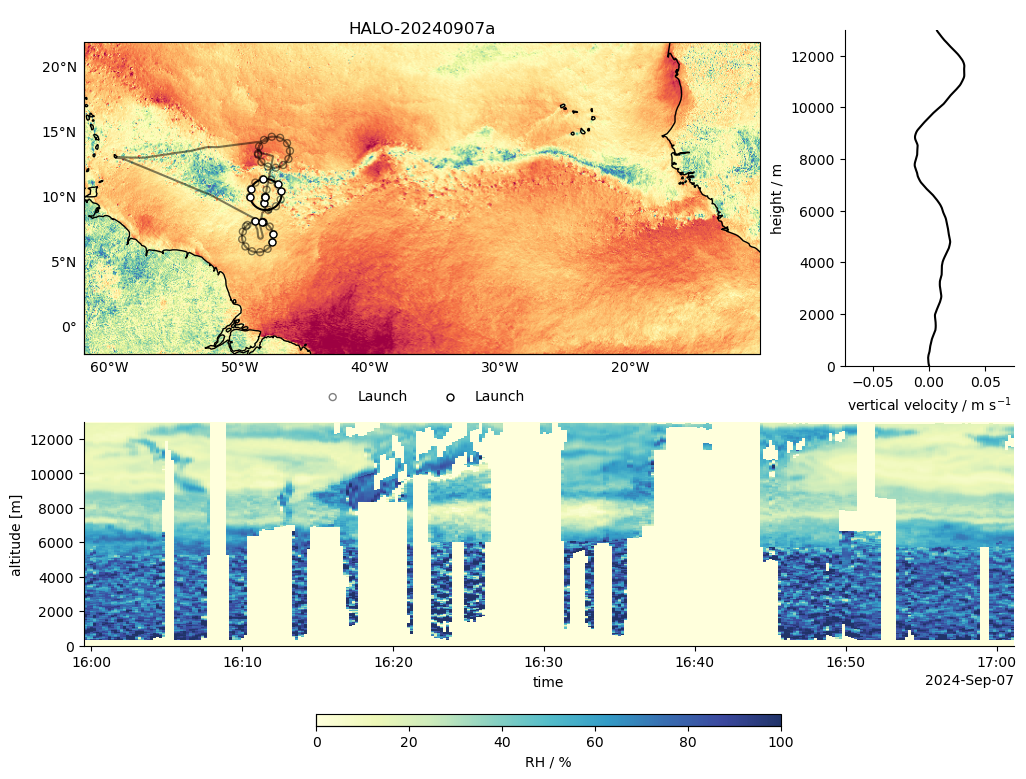
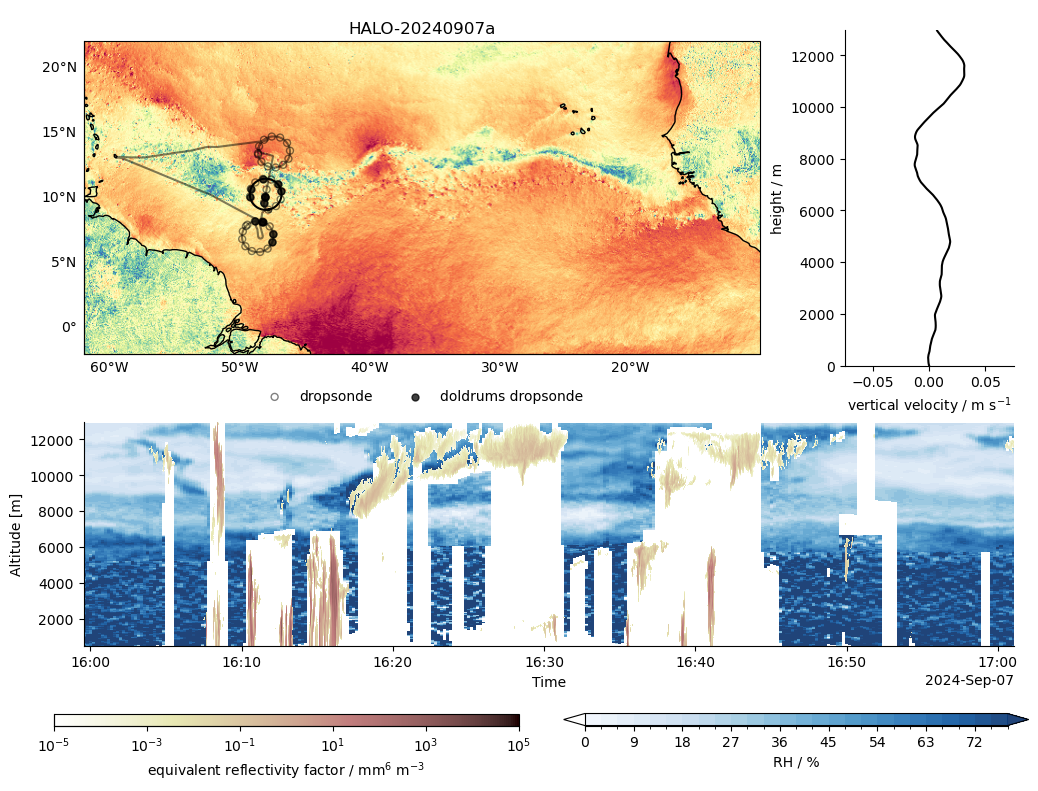
Replaces radar or lidar only plots with combined radar lidar plots.

diff --git a/scripts/figures_itcz_weak_winds.py b/scripts/figures_itcz_weak_winds.py
@@ -83,6 +83,7 @@ store = (
 )
 ds_wales_wv = xr.open_dataset(store, engine="zarr")
 ds_wales_wv = ds_wales_wv.sel(time=slice(flight_start, flight_end))
+ds_wales_wv = ds_wales_wv.where(ds_wales_wv.wv_flags == 0)
 
 k_B = 1.380649e-23  # J/K
 
@@ -97,6 +98,12 @@ es = 611.2 * np.exp(
 
 ds_wales_wv["RH"] = 100 * e / es
 
+# %%
+# HAMP dataset
+ds_hamp = xr.open_dataset(
+    "ipfs://bafybeifxtmq5mpn7vwiiwl4vlpoil7rgm2tnhmkeyqsyudleqegxzvwl3a", engine="zarr"
+)
+ds_hamp_flight = ds_hamp.sel(time=slice(flight_start, flight_end))
 
 # %%
 # LAM dataset
@@ -152,7 +159,7 @@ ax_lam.scatter(
     sondes_flight_day.launch_lon,
     sondes_flight_day.launch_lat,
     facecolors="none",
-    label="Launch",
+    label="dropsonde",
     alpha=0.5,
     **scatter_kwargs,
 )
@@ -161,10 +168,10 @@ ax_lam.scatter(
     dol_sondes_flight_day.launch_lon,
     dol_sondes_flight_day.launch_lat,
     color=None,
-    label="Launch",
-    alpha=1.0,
+    label="doldrums dropsonde",
+    alpha=0.75,
     zorder=10,
-    facecolors="white",
+    facecolors="k",
     **scatter_kwargs,
 )
 
@@ -174,32 +181,63 @@ ax_lam.spines[["right", "top"]].set_visible(False)
 ax_lam.legend(frameon=False, loc="lower center", bbox_to_anchor=(0.5, -0.2), ncol=4)
 ax_lam.set_title(flight_id)
 
+cmap_wales = plt.get_cmap("Blues").copy()
+cmap_wales.set_under((1, 1, 1, 0))  # transparent
 
 ds_wales_sel_segment = ds_wales_wv.sel(time=slice(segment_start, segment_end))
 im_wales = ds_wales_sel_segment["RH"].plot(
     alpha=0.9,
     x="time",
-    vmin=0,
-    vmax=100,
+    levels=np.arange(0, 81, 3),
     ax=ax_wales,
-    cmap="YlGnBu",
+    cmap=cmap_wales,
     add_colorbar=False,
 )
 
-pos = ax_wales.get_position()
+# HAMP radar reflectivity
 
-cax_wv = fig.add_axes(
-    [
-        pos.x0 + 0.25 * pos.width,  # left
-        pos.y1 - 0.38,  # bottom
-        0.5 * pos.width,  # width
-        0.015,  # height
-    ]
+cmap = plt.get_cmap("pink_r").copy()
+cmap.set_under((1, 1, 1, 0))  # transparent
+
+reflectivity_segment = ds_hamp_flight.radar_reflectivity.sel(
+    time=slice(segment_start, segment_end)
 )
 
+
+im_hamp = reflectivity_segment.plot(
+    y="altitude",
+    ax=ax_wales,
+    label=f"IWV bin {bin}",
+    cmap=cmap,
+    norm=colors.LogNorm(vmin=1e-5, vmax=1e5),
+    add_colorbar=False,
+)
+
+
+pos = ax_wales.get_position()
+
+cax_wv_positions = [
+    pos.x0 - 0.025,  # left
+    pos.y1 - 0.38,  # bottom
+    0.5 * pos.width,  # width
+    0.015,  # height
+]
+
+cax_wv = fig.add_axes(cax_wv_positions)
+cax_wales = fig.add_axes(cax_wv_positions + np.array([0.425, 0, 0, 0]))
+
+
 cb = fig.colorbar(
-    im_wales,
+    im_hamp,
     cax=cax_wv,
+    orientation="horizontal",
+    label=r"equivalent reflectivity factor / mm$^6$ m$^{-3}$",
+    shrink=0.75,
+)
+
+cb_wales = fig.colorbar(
+    im_wales,
+    cax=cax_wales,
     orientation="horizontal",
     label=r"RH / %",
     shrink=0.75,
@@ -216,15 +254,13 @@ cwv_circle_in_segment = circles_flight_day.sel(
 
 print(f"Mean IWV in circle segment: {cwv_circle_in_segment:.2f} kg/m^2")
 
-
 ax_ds.set_xlabel("vertical velocity / m s$^{-1}$")
 ax_ds.set_ylabel("height / m")
 ax_ds.set_title(" ")
 ax_ds.set_ylim(ymin=0, ymax=13e3)
 ax_ds.set_xlim(xmin=-0.075, xmax=0.075)
 
-
-ax_wales.set_ylim(ymin=0, ymax=13e3)
+ax_wales.set_ylim(ymin=500, ymax=13e3)
 
 sns.despine()
 

diff --git a/scripts/figures_itcz_deep_convection.py b/scripts/figures_itcz_deep_convection.py
@@ -51,6 +51,28 @@ ds_hamp = xr.open_dataset(
 ds_hamp_flight = ds_hamp.sel(time=slice(flight_start, flight_end))
 
 # %%
+# WALES dataset
+store = (
+    "https://swift.dkrz.de/v1/dkrz_41caca03ec414c2f95f52b23b775134f/wales/wales_wv.zarr"
+)
+ds_wales_wv = xr.open_dataset(store, engine="zarr")
+ds_wales_wv = ds_wales_wv.sel(time=slice(flight_start, flight_end))
+ds_wales_wv = ds_wales_wv.where(ds_wales_wv.wv_flags == 0)
+
+k_B = 1.380649e-23  # J/K
+
+T = ds_wales_wv["airtemperature"]  # K
+n_v = ds_wales_wv["wv"]  # molecules/m^3
+
+e = n_v * k_B * T  # Pa
+
+es = 611.2 * np.exp(
+    17.67 * (T - 273.15) / (T - 29.65)
+)  # Bolton formula for saturation vapor pressure over liquid water, in Pa
+
+ds_wales_wv["RH"] = 100 * e / es
+
+# %%
 # LAM dataset
 url = "https://eerie.cloud.dkrz.de/datasets/orcestra_1250m_2d_hpz12/kerchunk"
 lam_ds = xr.open_dataset(url, chunks={}, engine="zarr", zarr_format=3)
@@ -130,36 +152,60 @@ ax_sat.spines[["right", "top"]].set_visible(False)
 ax_sat.legend(frameon=False, loc="lower center", bbox_to_anchor=(0.5, -0.2), ncol=4)
 ax_sat.set_title(flight_id)
 
+cmap_wales = plt.get_cmap("Blues").copy()
+cmap_wales.set_under((1, 1, 1, 0))  # transparent
+
+ds_wales_sel_segment = ds_wales_wv.sel(time=slice(segment_start, segment_end))
+im_wales = ds_wales_sel_segment["RH"].plot(
+    alpha=0.9,
+    x="time",
+    levels=np.arange(0, 81, 3),
+    ax=ax_hamp,
+    cmap=cmap_wales,
+    add_colorbar=False,
+)
+
 ds_hamp_sel_segment = ds_hamp_flight.sel(
     time=slice(time_plot_hamp_start, time_plot_hamp_end)
 )
+
+cmap = plt.get_cmap("pink_r").copy()
+cmap.set_under((1, 1, 1, 0))  # transparent
+
 im_hamp = ds_hamp_sel_segment["radar_reflectivity"].plot(
-    norm=colors.LogNorm(),
-    alpha=0.9,
-    x="time",
-    vmin=1e-5,
-    vmax=1e5,
+    y="altitude",
     ax=ax_hamp,
-    cmap="YlGnBu",
+    label=f"IWV bin {bin}",
+    cmap=cmap,
+    norm=colors.LogNorm(vmin=1e-5, vmax=1e5),
     add_colorbar=False,
 )
 
 pos = ax_hamp.get_position()
 
-cax_wv = fig.add_axes(
-    [
-        pos.x0 + 0.25 * pos.width,  # left
-        pos.y1 - 0.38,  # bottom
-        0.5 * pos.width,  # width
-        0.015,  # height
-    ]
-)
+cax_wv_positions = [
+    pos.x0 - 0.025,  # left
+    pos.y1 - 0.38,  # bottom
+    0.5 * pos.width,  # width
+    0.015,  # height
+]
+
+cax_wv = fig.add_axes(cax_wv_positions)
+cax_wales = fig.add_axes(cax_wv_positions + np.array([0.425, 0, 0, 0]))
 
 cb = fig.colorbar(
     im_hamp,
     cax=cax_wv,
     orientation="horizontal",
     label=r"equivalent reflectivity factor / mm$^6$ m$^{-3}$",
+    shrink=0.75,
+)
+
+cb_wales = fig.colorbar(
+    im_wales,
+    cax=cax_wales,
+    orientation="horizontal",
+    label=r"RH / %",
     shrink=0.75,
 )
 
